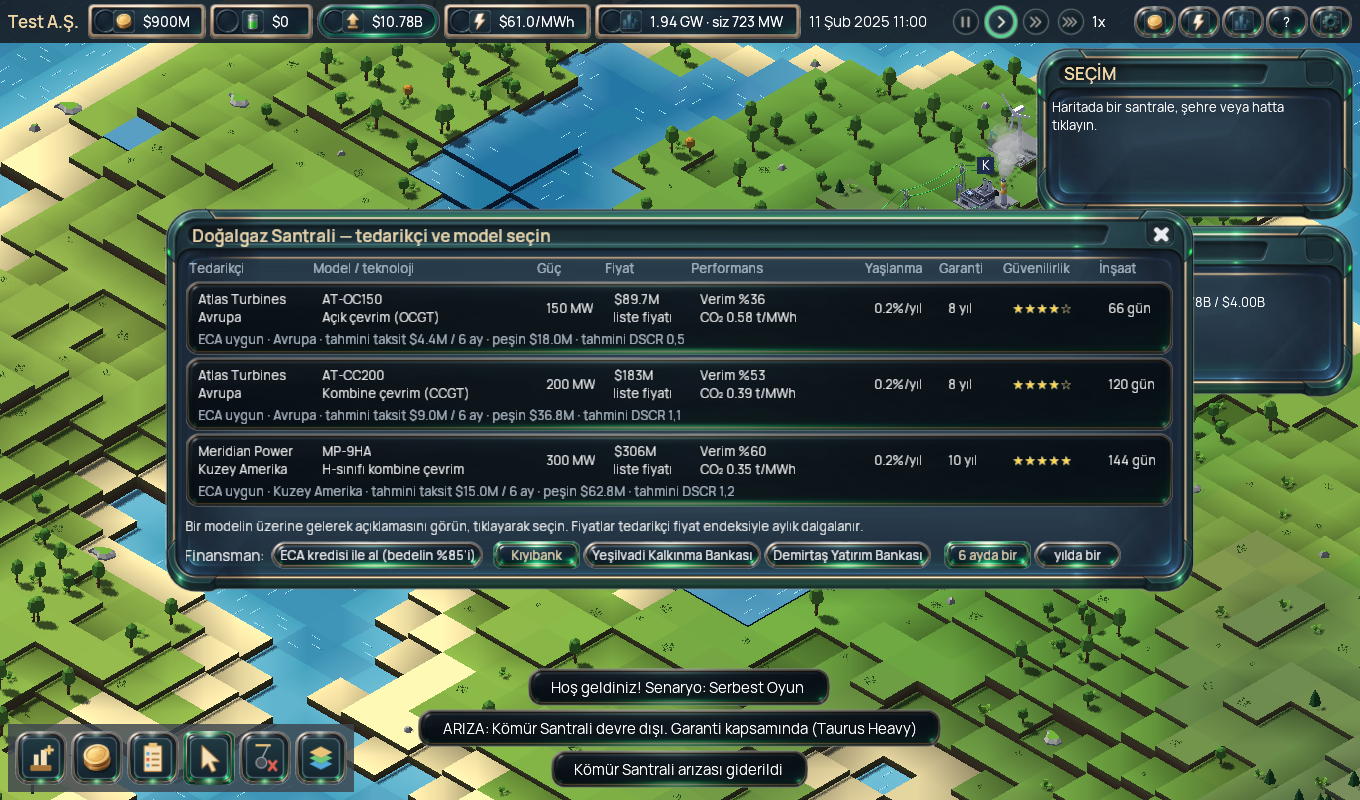
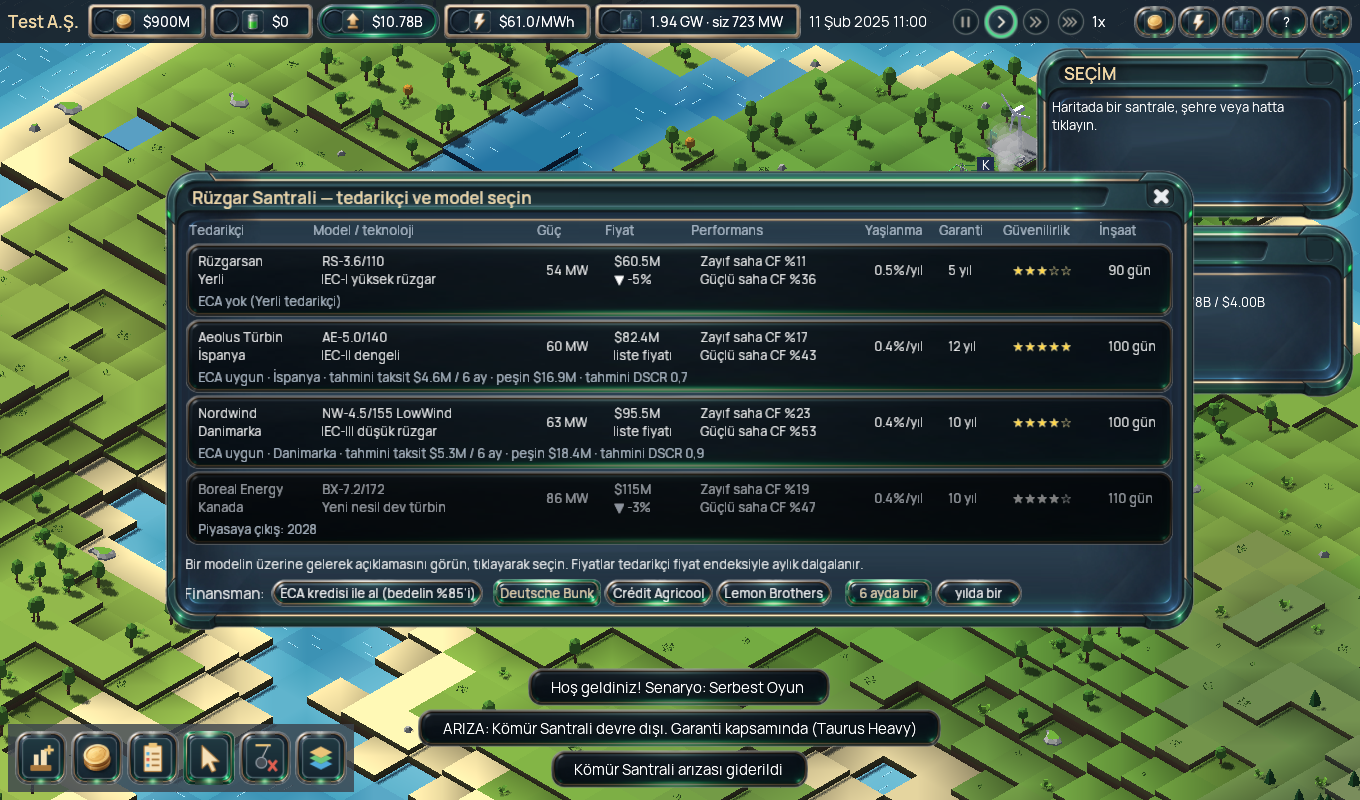
Banka adları parodi, rastgele şehir adları, ECA'da gerçek tedarikçi ülkeleri
- Bankalar: Deutsche Bunk (genel ticari), Crédit Agricool (yeşil), Lemon Brothers (risk iştahı yüksek); adlar dile göre değişmez
- Şehir adları her tohumda ön ek + son ek birleşimiyle üretiliyor (CityNames); harita yerleşimi eski tohumlarla aynı
- Tedarikçilere ülke: Çin, Almanya, ABD, Danimarka, İspanya, Kanada, İtalya, Japonya, Norveç, İsviçre, Fransa; ECA primi ülkeye göre
- Eski kayıtlarda bölge adlı ECA kredisi bağlı santralin tedarikçi ülkesine çevriliyor

Claude-Session: https://claude.ai/code/session_01ECPzxaSLWUWNAAujDxZ3R8

Changed region(s): [[0.1235, 0.1875, 0.8956, 0.8125]]

diff --git a/src/main/java/com/energytycoon/sim/EquipmentCatalog.java b/src/main/java/com/energytycoon/sim/EquipmentCatalog.java
@@ -12,22 +12,22 @@ public final class EquipmentCatalog {
     public final Map<String, Equipment> equipment = new LinkedHashMap<>();
 
     public EquipmentCatalog() {
-        Supplier sunpeak = sup("sunpeak", "SunPeak", "Uzak Doğu", 0.68, 10);
-        Supplier helion = sup("helion", "Helion Modül", "Avrupa", 0.85, 12);
-        Supplier lumina = sup("lumina", "Lumina PV", "Kuzey Amerika", 0.92, 15);
+        Supplier sunpeak = sup("sunpeak", "SunPeak", "Çin", 0.68, 10);
+        Supplier helion = sup("helion", "Helion Modül", "Almanya", 0.85, 12);
+        Supplier lumina = sup("lumina", "Lumina PV", "ABD", 0.92, 15);
         Supplier kuzey = sup("kuzey", "Kuzey Güneş", "Yerli", 0.80, 12);
         Supplier ruzgarsan = sup("ruzgarsan", "Rüzgarsan", "Yerli", 0.66, 5);
-        Supplier nordwind = sup("nordwind", "Nordwind", "İskandinavya", 0.88, 10);
-        Supplier aeolus = sup("aeolus", "Aeolus Türbin", "Avrupa", 0.93, 12);
-        Supplier boreal = sup("boreal", "Boreal Energy", "Kuzey Amerika", 0.82, 10);
-        Supplier atlas = sup("atlas", "Atlas Turbines", "Avrupa", 0.85, 8);
-        Supplier meridian = sup("meridian", "Meridian Power", "Kuzey Amerika", 0.92, 10);
+        Supplier nordwind = sup("nordwind", "Nordwind", "Danimarka", 0.88, 10);
+        Supplier aeolus = sup("aeolus", "Aeolus Türbin", "İspanya", 0.93, 12);
+        Supplier boreal = sup("boreal", "Boreal Energy", "Kanada", 0.82, 10);
+        Supplier atlas = sup("atlas", "Atlas Turbines", "İtalya", 0.85, 8);
+        Supplier meridian = sup("meridian", "Meridian Power", "ABD", 0.92, 10);
         Supplier ferrum = sup("ferrum", "Ferrum Kazan", "Yerli", 0.78, 6);
-        Supplier taurus = sup("taurus", "Taurus Heavy", "Uzak Doğu", 0.88, 10);
-        Supplier hydrova = sup("hydrova", "Hydrova", "Avrupa", 0.90, 15);
-        Supplier alpina = sup("alpina", "Alpina Hidro", "Alpler", 0.86, 12);
-        Supplier atomtek = sup("atomtek", "Atomtek", "Avrupa", 0.90, 20);
-        Supplier polaris = sup("polaris", "Polaris SMR", "Kuzey Amerika", 0.78, 15);
+        Supplier taurus = sup("taurus", "Taurus Heavy", "Japonya", 0.88, 10);
+        Supplier hydrova = sup("hydrova", "Hydrova", "Norveç", 0.90, 15);
+        Supplier alpina = sup("alpina", "Alpina Hidro", "İsviçre", 0.86, 12);
+        Supplier atomtek = sup("atomtek", "Atomtek", "Fransa", 0.90, 20);
+        Supplier polaris = sup("polaris", "Polaris SMR", "ABD", 0.78, 15);
 
         //  id, type, supplier, model, tech, MW, capex/MW, eff, outMult, a, b, deg, build, om, year, visA, visB, not
         // GUNES: a = sicak saha kaybi

diff --git a/src/main/java/com/energytycoon/sim/CityNames.java b/src/main/java/com/energytycoon/sim/CityNames.java
@@ -1,0 +1,48 @@
+package com.energytycoon.sim;
+
+import java.util.ArrayList;
+import java.util.LinkedHashSet;
+import java.util.List;
+import java.util.Random;
+import java.util.Set;
+
+/**
+ * Rastgele sehir adi uretici: on ek + son ek birlesimi (Turkce yer adi kaliplari). Her tohumda farkli,
+ * ayni tohumda hep ayni adlar. Son ekler unlu uyumuna bagli olmayan bagimsiz kelimelerdir.
+ */
+public final class CityNames {
+    private CityNames() {}
+
+    static final String[] PREFIX = {
+        "Ak", "Kara", "Sarı", "Yeşil", "Demir", "Taş", "Kızıl", "Gök", "Bey", "Kuzey", "Güney", "Yeni", "Eski", "Uzun",
+        "Çam", "Elma", "Gül", "Ova", "Dere", "Tepe", "Bağ", "Çınar", "Pınar", "Mercan", "Duman", "Bulut", "Ay", "Gün",
+        "Yıldız", "Kum", "Kaya", "Bozkır", "Ilıca", "Kartal", "Doğan", "Ceviz", "Kiraz", "Nar", "Zeytin", "Kavak",
+        "Söğüt", "Meşe", "Ardıç", "Lale", "Mavi", "Altın", "Gümüş", "Bakır", "Kireç", "Tuz", "Değirmen", "Köprü",
+        "Ulu", "Orta", "Aşağı", "Yukarı", "Büyük", "Küçük", "Serin", "Ilgın", "Akça", "Karaca", "Yalı", "Liman"
+    };
+    static final String[] SUFFIX = {
+        "köy", "ova", "kent", "ırmak", "kale", "su", "yurt", "bahçe", "liman", "pınar", "dere", "tepe", "yayla",
+        "ören", "hisar", "şehir", "alan", "çay", "köprü", "bük", "pazar", "yaka", "burun", "göl", "dağ", "bel", "yazı", "taş"
+    };
+    /** Tek kelimelik, kendi basina sehir adi gibi duran birkac secenek de karisima girer. */
+    static final String[] SINGLE = { "Dumanlı", "Elmalı", "Çınarlı", "Karasu", "Bozova", "Akçakoca", "Sarıyurt", "Taşkale" };
+
+    public static List<String> generate(Random r, int n) {
+        Set<String> out = new LinkedHashSet<>();
+        int guard = 0;
+        while (out.size() < n && guard++ < 10_000) {
+            String name;
+            if (r.nextInt(8) == 0) name = SINGLE[r.nextInt(SINGLE.length)];
+            else {
+                String p = PREFIX[r.nextInt(PREFIX.length)], s = SUFFIX[r.nextInt(SUFFIX.length)];
+                if (p.toLowerCase(java.util.Locale.ROOT).endsWith(s) || s.equals("taş") && p.equals("Taş")) continue;
+                name = p + s;
+            }
+            // ayni on ekle baslayan iki sehir olmasin (haritada karisir)
+            String head = name.substring(0, Math.min(4, name.length()));
+            if (out.stream().anyMatch(o -> o.startsWith(head))) continue;
+            out.add(name);
+        }
+        return new ArrayList<>(out);
+    }
+}

diff --git a/src/main/java/com/energytycoon/sim/Finance.java b/src/main/java/com/energytycoon/sim/Finance.java
@@ -94,7 +94,7 @@ public final class Finance {
         if (exempt(c)) return "Kamu kredi kullanmaz";
         if (c.bankBanUntil[b.ordinal()] > s.hour) return "Temerrüt sonrası " + FinanceBalance.REL_BAN_YEARS + " yıl kredi vermez";
         Rating r = rating(c);
-        if (type != Loan.Type.ECA && !b.lendsTo(r)) return "CCC nota yalnızca Demirtaş kredi verir";
+        if (type != Loan.Type.ECA && !b.lendsTo(r)) return "CCC nota yalnızca " + Bank.DEMIRTAS.label + " kredi verir";
         if (type == Loan.Type.COMMERCIAL && c.bankCovenantBreach[b.ordinal()]) return "Taahhüt ihlali: yeni ticari kredi yok";
         if (b == Bank.YESIL && purpose != null && !purpose.type.renewable) return "Fosil santrale kredi vermez";
         if (c.restructUsed && c.restructProtectUntil > s.hour) return "Yapılandırma sürüyor";
@@ -152,7 +152,8 @@ public final class Finance {
     /** Tedarikci ulkesi icin ECA sigorta primi (risk); yerli tedarikcide ECA yok. */
     public static double ecaPremiumRate(String origin) {
         return switch (origin) {
-            case "İskandinavya" -> 0.04; case "Alpler" -> 0.045; case "Avrupa" -> 0.05; case "Kuzey Amerika" -> 0.055; case "Uzak Doğu" -> 0.08;
+            case "Danimarka", "Norveç" -> 0.04; case "İsviçre" -> 0.045; case "Almanya", "Fransa", "Kanada" -> 0.05;
+            case "İtalya", "İspanya", "ABD" -> 0.055; case "Japonya" -> 0.06; case "Çin" -> 0.08;
             default -> -1;
         };
     }

diff --git a/src/main/java/com/energytycoon/sim/Bank.java b/src/main/java/com/energytycoon/sim/Bank.java
@@ -1,10 +1,10 @@
 package com.energytycoon.sim;
 
-/** Kurgusal bankalar. */
+/** Kurgusal bankalar: dunyanin buyuk bankalarinin parodi adlari (her dilde ayni kalir; ceviriye girmez). */
 public enum Bank {
-    KIYI("Kıyıbank", "Genel ticari banka · ortalama koşullar, en geniş limit"),
-    YESIL("Yeşilvadi Kalkınma Bankası", "Yenilenebilir odaklı · yenilenebilir krediye −0,5 puan, 10 yıla kadar vade; fosil santrale kredi vermez; taahhüt Net borç/FAVÖK ≤ 4,0"),
-    DEMIRTAS("Demirtaş Yatırım Bankası", "Risk iştahı yüksek · CCC nota da kredi verir (+2 puan); diğer notlarda +0,5 puan");
+    KIYI("Deutsche Bunk", "Genel ticari banka · ortalama koşullar, en geniş limit"),
+    YESIL("Crédit Agricool", "Yenilenebilir odaklı · yenilenebilir krediye −0,5 puan, 10 yıla kadar vade; fosil santrale kredi vermez; taahhüt Net borç/FAVÖK ≤ 4,0"),
+    DEMIRTAS("Lemon Brothers", "Risk iştahı yüksek · CCC nota da kredi verir (+2 puan); diğer notlarda +0,5 puan");
 
     public final String label, profile;
     Bank(String l, String p) { label = l; profile = p; }

diff --git a/src/main/java/com/energytycoon/sim/SaveData.java b/src/main/java/com/energytycoon/sim/SaveData.java
@@ -355,6 +355,10 @@ public class SaveData {
             if (d > 1) s.finance.convertLegacyDebt(c, d);
             if (s.finance.revolver(c) == null && !c.bankrupt) s.finance.openRevolverFree(c, Bank.KIYI);
         }
+        // Eski kayit: ECA kredisinde bolge adi (Avrupa, Uzak Dogu...) -> bagli santralin tedarikci ulkesi
+        for (Company c : s.companies) for (Loan l : c.loans)
+            if (l.type == Loan.Type.ECA && l.ecaOrigin != null && Finance.ecaPremiumRate(l.ecaOrigin) < 0)
+                for (Plant p : s.plants) if (p.id == l.linkedPlant && p.equipment != null) { l.ecaOrigin = p.equipment.supplier.origin; break; }
         if (monthlyPrice != null) for (double v : monthlyPrice) s.history.monthlyPrice.add(v);
         s.rng.setSeed(seed ^ hour * 31);
         s.updateValuations();

diff --git a/src/main/java/com/energytycoon/sim/GameState.java b/src/main/java/com/energytycoon/sim/GameState.java
@@ -143,7 +143,8 @@ public final class GameState {
         int want = settings.cities;
         int tries = 0;
         List<String> names = new ArrayList<>(List.of(CITY_NAMES));
-        java.util.Collections.shuffle(names, rng);
+        java.util.Collections.shuffle(names, rng);   // rastgele sayi akisi (harita yerlesimi) eski tohumlarla ayni kalsin
+        names = CityNames.generate(new java.util.Random(settings.seed * 0x9E3779B97F4A7C15L + 17), want);
         double spacing = map.size / Math.sqrt(want) * 0.85;
         int margin = Math.max(4, map.size / 12);
         int maxLevel = Math.max(9, settings.preset.relief - 4);

diff --git a/src/main/java/com/energytycoon/ui/FinanceCenter.java b/src/main/java/com/energytycoon/ui/FinanceCenter.java
@@ -331,7 +331,7 @@ public final class FinanceCenter {
         loans.add(rows).padBottom(6).row();
         Table acts = new Table();
         acts.add(button("Yeni kredi…", "wizard", true)).width(160).height(32).padRight(6);
-        if (f.revolver(p) == null) acts.add(button("İşletme kredisi limiti aç (Kıyıbank)", "revopen", true)).height(32);
+        if (f.revolver(p) == null) acts.add(button("İşletme kredisi limiti aç (" + Bank.KIYI.label + ")", "revopen", true)).height(32);
         loans.add(acts).padBottom(10).row();
         // bankalar
         loans.add(UiKit.section(skin, "BANKALAR")).row();
